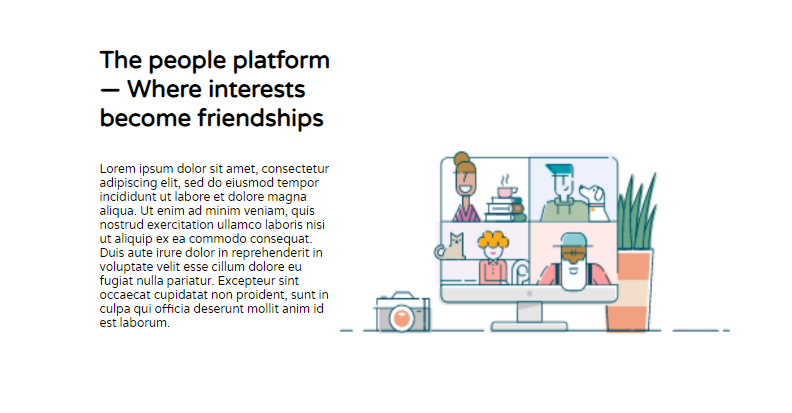
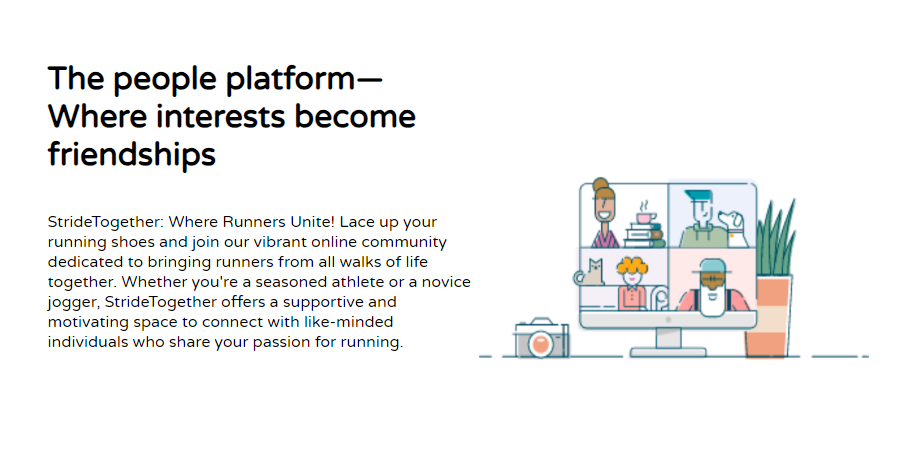
css

Changed region(s): [[0.0303, 0.1162, 0.9697, 0.8136]]

diff --git a/frontend/public/index.html b/frontend/public/index.html
@@ -19,7 +19,9 @@
     <meta property="og:type" content="website" />
     <meta property="og:url" content="https://romeogalvan.com" />
     <meta property="og:image" content="%PUBLIC_URL%/images/open-graph-img.png" />
-    <meta property="og:description" content="Lorem ipsum dolor sit amet, consectetur adipiscing elit, sed do eiusmod tempor incididunt ut labore et dolore magna aliqua. " />
+    <meta property="og:description" content="StrideTogether: Where Runners Unite! Lace up your running shoes and join our vibrant online community dedicated to bringing runners from all walks of life together. Whether you're a seasoned athlete or a novice jogger, StrideTogether offers a supportive and motivating space to connect with like-minded individuals who share your passion for running." />
+    <meta property="og:image:width" content="902" />
+<meta property="og:image:height" content="465" />
     <title>Run Up</title>
     <link
             rel="stylesheet"
